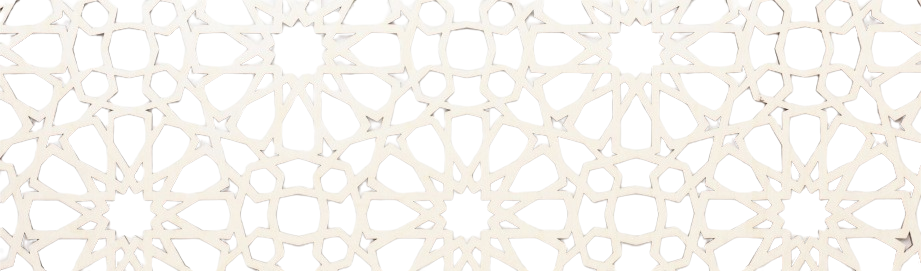
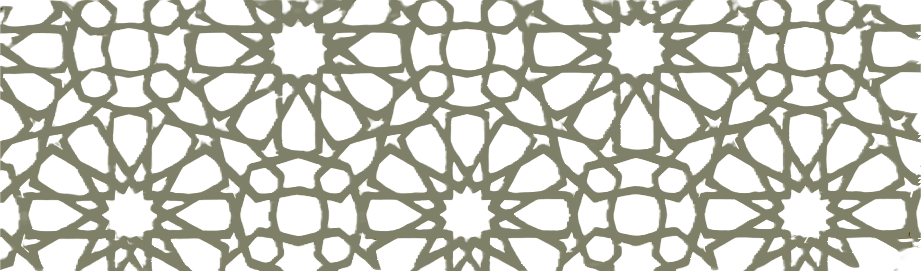
zalige of morocco

diff --git a/work_9.html b/work_9.html
@@ -81,11 +81,9 @@
             line-height: 1.8rem;
 
         }
-
-        #slide .panorama-content__teaser {
+        #slide .panorama-content__teaser{
             color: #165B31;
         }
-
         .panorama-content__body p {
             margin-bottom: 1rem;
             font-weight: 300;
@@ -114,7 +112,7 @@
         .rte ul {
             list-style: none;
             margin: 0rem 0 1.5rem 2.5rem;
-
+            
         }
 
         #slide.active {
@@ -185,7 +183,7 @@
 
             border-width: 7px;
             border-style: solid;
-            border-image: linear-gradient(to right, #690004, #BB262C) 1;
+            border-image: linear-gradient(to right, #690004 , #BB262C) 1;
             border-left: 0;
             border-right: 0;
             border-top: 0;
@@ -197,7 +195,7 @@
         }
 
 
-        nav .right-section>a {
+        nav .right-section > a {
             color: #ffffff;
             text-decoration: none;
             padding-right: 15px;
@@ -206,12 +204,12 @@
             border-right: 2px solid #BB262C;
         }
 
-        nav .right-section span a {
+        nav .right-section span a{
             padding-right: 10px;
             padding-left: 10px;
         }
 
-        nav .right-section span {
+        nav .right-section span{
             border-right: 2px solid #BB262C;
         }
 
@@ -225,10 +223,10 @@
         }
 
         .logo_nav {
-            background: rgba(22, 91, 49, 0.9) url('./images/zalige3.png') no-repeat center center;
+            background: rgba(22, 91, 49, 0.9) url('./images/360_F_306322985_fB5bVB7p0Kov1DdcV6AePJ0gwLgvnVEJ.jpg') no-repeat center center;
         }
 
-
+        
         .header_logo .logo_nav {
             padding: 50px 8px;
             background-color: #ffffff;
@@ -306,10 +304,8 @@
             <a href="#">PUBLICATIONS</a>
             <a href="#">REVUE</a>
             <a href="#">CONTACTS</a>
-            <span>
-                <a target="_blank"
-                    href="https://www.facebook.com/p/IRFC-Institut-Royal-de-Formation-des-Cdres-100063470006649/"><i
-                        class="fa fa-facebook"></i></a>
+            <span >
+                <a target="_blank" href="https://www.facebook.com/p/IRFC-Institut-Royal-de-Formation-des-Cdres-100063470006649/"><i class="fa fa-facebook"></i></a>
                 <!-- <a href=""><i class="fa fa-twitter"></i></a> -->
                 <!-- <a href=""><i class="fa fa-instagram"></i></a> -->
                 <a href="https://www.youtube.com/channel/UCTXaP6orcXBd6xl90OCq9fA"><i class="fa fa-youtube"></i></a>
@@ -332,7 +328,7 @@
         <div class="header_sec2">
             <div class="menu">
                 <a href="">
-                    <svg class="w-8 h-8" viewBox="0 0 24 24" fill="none" xmlns="http://www.w3.org/2000/svg">
+                    <svg class="w-8 h-8"  viewBox="0 0 24 24" fill="none" xmlns="http://www.w3.org/2000/svg">
                         <g id="SVGRepo_bgCarrier" stroke-width="0"></g>
                         <g id="SVGRepo_tracerCarrier" stroke-linecap="round" stroke-linejoin="round"></g>
                         <g id="SVGRepo_iconCarrier">
@@ -367,7 +363,7 @@
     <div class="hero">
         <div id="panorama"></div>
         <canvas id="gradient-overlay"></canvas>
-        <div id="slide">
+        <div id="slide" >
             <div class="close-icon" id="close-icon"></div>
             <h2 class="panorama-content__title">
                 <span>Shooting</span>
